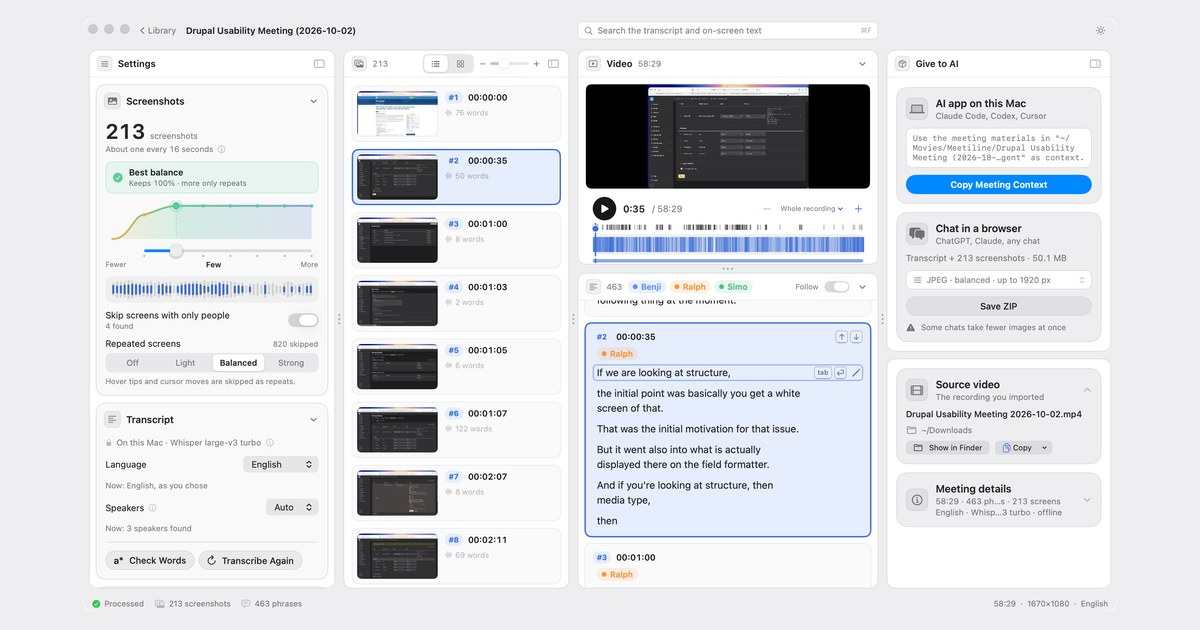
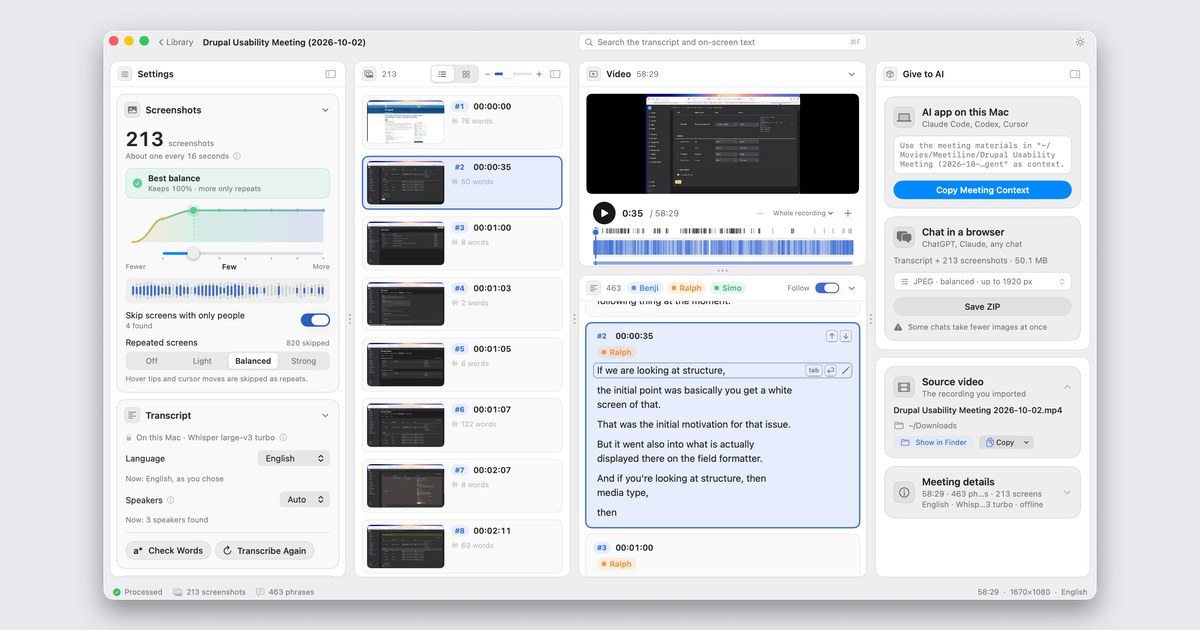
Share preview: the window with its macOS shadow, so its edge shows on the light background

Changed region(s): [[0.0617, 0.0302, 0.925, 0.9952], [0.74, 0.0905, 0.8017, 0.1206]]

diff --git a/index.html b/index.html
@@ -8,11 +8,11 @@
 <meta property="og:type" content="website">
 <meta property="og:title" content="Meetiline · Get a meeting ready for AI">
 <meta property="og:description" content="Key screenshots with exact times and the transcript under each, packed for any AI. Private, on your Mac.">
-<meta property="og:image" content="https://meetiline.iskan.kz/og.jpg?v=0.3.9-light">
+<meta property="og:image" content="https://meetiline.iskan.kz/og.jpg?v=0.3.9-light2">
 <meta property="og:image:width" content="1200">
 <meta property="og:image:height" content="630">
 <meta property="og:image:alt" content="Meetiline: screenshots of a meeting, the video, and the transcript with speakers">
-<meta name="twitter:image" content="https://meetiline.iskan.kz/og.jpg?v=0.3.9-light">
+<meta name="twitter:image" content="https://meetiline.iskan.kz/og.jpg?v=0.3.9-light2">
 <meta name="twitter:card" content="summary_large_image">
 <meta name="theme-color" content="#181818">
 <script>try { var t = localStorage.getItem('theme'); if (t === 'light' || t === 'dark') document.documentElement.dataset.theme = t; } catch (e) {}</script>
